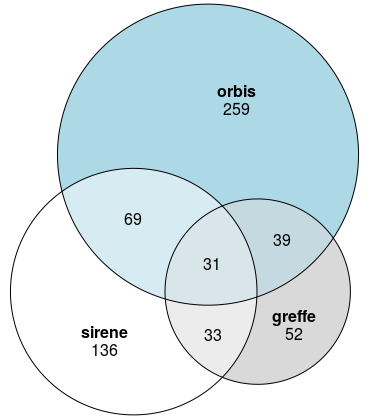
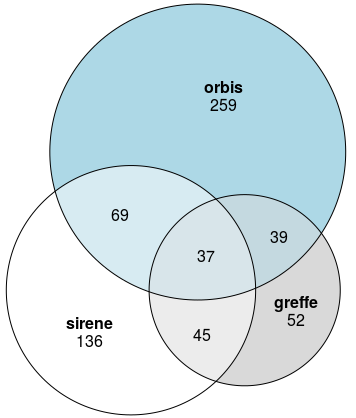
màj prez v1 + R

diff --git a/CCFD_DDV_Prez-Rapport.html b/CCFD_DDV_Prez-Rapport.html
@@ -115,7 +115,7 @@ Le millésime 2017 présente un stock de 1103530 entreprises déclarées. **L'ap
 
 L'analyse des formes juridiques fait apparaître une certaine homogénéité : **la majorité des entreprises répondant aux critères de la loi sont des SAS (23), des SAI (11) et des SASU (8)**. L'intégralité des entreprises relèvent du droit commercial.
 
-![](./graph/ddv_greffe_juri/ddv_greffe_juri.png)
+![](./graph/ddv_greffe_juri.png)
 
 
 ---
@@ -143,13 +143,13 @@ L'analyse des formes juridiques des entreprises indique cependant que toutes ces
 * 79 entreprises relèvent du droit administratif (collectivités territoriales, hôpitaux, université, etc.) ;
 * 5 tombant sous la catégorie "groupement de droit privé", sont des organismes caricatifs (Croix Rouge, Association des paralysés de France, Fondation d'Auteuil...).
 
-Une fois écartées ces deux catégories, **nous obtenons une liste de 136 entreprises soumises au droit commercial ayant employé plus de 5000 salariés deux années de suite**.
+Une fois écartées ces deux catégories, **nous obtenons une liste de 136 entreprises soumises au droit commercial ayant employé plus de 5000 salariés deux années de suite en France**.
 
 ---
 
-### Recoupements
+### Intersection
 
-En croisant les identifiants uniques Siren des entreprises répondant aux critères Devoir de vigilance pour les bases Greffe et Sirene, il apparaît que **l'intersection des listes se limite à 45 unités légales**. Aucune des bases ne peut donc être considérée comme suffisante à établir une liste.
+En croisant les identifiants uniques Siren des entreprises répondant aux critères de la loi Devoir de vigilance, il apparaît que **l'intersection des deux listes se limite à 45 unités légales**. Aucune des bases ne peut donc être considérée comme suffisante à établir une liste complète.
 
 ![](./graph/ddv_s-g_venneuler.png)
 
@@ -157,9 +157,9 @@ En croisant les identifiants uniques Siren des entreprises répondant aux critè
 
 ## Base Orbis
 
-[La base de données Orbis](https://www.bvdinfo.com/fr-fr/our-products/company-information/international-products/orbis) est un service fourni par la société Bureau van Dijk (filiale de la société d'analyse financière Moody's).
+[La base de données Orbis](https://www.bvdinfo.com/fr-fr/our-products/company-information/international-products/orbis) est un service fourni par la société Bureau van Dijk (filiale du groupe d'analyse financière Moody's).
 
-Elle propose aux acteurs privés et publics des données micro-économiques sur 300 millions d'entreprises dans le monde, notamment leurs effectifs. Parmi les critères de recherche, elle offre notamment la possibilité de retracer les liens de propriété financière entre les établissements d'une même entreprise à l'internationale, offrant ainsi une estimation du périmètre réel des groupes.
+Elle propose aux acteurs privés et publics des données micro-économiques sur 300 millions d'entreprises dans le monde, notamment leurs effectifs. Parmi les critères de recherche, elle offre la possibilité de retracer les liens de propriété financière entre les établissements d'une même entreprise à l'internationale, offrant ainsi une estimation du périmètre réel de ces sociétés.
 
 Cette base étant d'accès limité et payant, nous la considérons comme **un étalon de l'exhaustivité des données disponibles en open data**. Nous ne disposons par ailleurs par de la profondeur historique de deux années requises par la loi. Nous l'utiliserons ainsi uniquement comme outil de comparaison.
 
@@ -169,21 +169,24 @@ Cette base étant d'accès limité et payant, nous la considérons comme **un é
 
 La liste Orbis permettant un filtre par effectif à l'échelle de la France et à l'échelle mondiale, nous pouvons tester les critères nationaux et internationaux de la loi.
 
-1. Plus de 5000 salariés France
+#### Plus de 5000 salariés France
+
 Au critère de "plus de 5000 salariés en France", **la base Orbis renvoie une liste de 259 entreprises, soit près du double de Sirene** (la plus importante établie en open data).
 
-2. Plus de 10000 salariés mondialement
+#### Plus de 10000 salariés mondialement
+
 **La base Orbis renvoie 147 entreprises cumulant plus de 10000 salariés au niveau mondial dans leurs filiales détenues directement ou indirectement**, soit plus que le nombre total d'entreprises enregistrées pour Sirene.
 
-L'intersection des deux listes par nom renvoie 145 établissements, indiquant que la quasi totalité des entreprises dépassant le seuil d'emploi à l'international (147) le dépassent déjà en France. 114 entreprises de la liste française n'apparaissent pas dans la liste internationale, soit plus du double de la liste complète établie via le greffe.
+L'intersection des deux listes par nom renvoie 145 établissements, indiquant que la quasi totalité des entreprises dépassant le seuil d'emploi à l'international (147) le dépassent déjà en France..
 
 ---
 
 ### Croisement des listes par nom
 
-.pull-left[Nous établissons un croisement par nom entre la base Orbis pour le critère français et les deux autres bases. **Seules 31 noms d'entreprises** se retrouvent dans les trois bases.
+.pull-left[Nous établissons un croisement par nom entre la base Orbis pour le critère français et les deux autres bases. **Seules 37 noms d'entreprises** se retrouvent dans les trois bases.
 
-**Rappel méthodologique** : les recoupements sont réalisés sur les noms et non sur les identifiants uniques siren(non disponibles sur Orbis). Ils sont donc moins précis (d'où la valeur d'intersection de 33 entre Sirene et Greffe au lieu de 45 obtenus précédemment). Ces comparaisons sont donc à utiliser avec réserve comme des calculs *a minima*.]
+** Rappel méthodologique** :
+*les recoupements sont réalisés sur les noms et non sur les identifiants uniques siren (non disponibles sur Orbis) et sont donc moins précis. Ces comparaisons sont à utiliser avec réserve comme des calculs a minima.*]
 
 .pull-right[
 ![](./graph/ddv_s-g-o_venneuler.png)
@@ -194,47 +197,18 @@ L'intersection des deux listes par nom renvoie 145 établissements, indiquant qu
 
 ## Liste établie par CCFD et Sherpa
 
-Sur la base de données ouvertes, les associations CCFD Terres solidaires et Sherpa ont établi une liste des entreprises ayant déclarées être soumises à la loi Devoir de vigilance ou ayant déjà publié un plan de ce type.
+Sur la base de données ouvertes, les associations CCFD Terres solidaires et Sherpa ont établi une liste des entreprises ayant déclarées être soumises à la loi Devoir de vigilance ou ayant déjà publié un plan en 2017 et en 2018.
 
-    Accor
-    Air Liquide
-    Arkema
-    Atos
-    Bic
-    Bolloré
-    Bouygues
-    BPCE
-    CIC
-    Club Med
-    Danone
-    Dassault Systèmes
-    Eramet
-    Essilor
-    Faurecia
-    Groupama
-    Bel
-    Iliad
-    Imerys
-    Ipsos
-    JC Decaux
-    Keolis
-    Kering
-    Korian
-    Lagardère
-    LVMH
-    Nexans
-    Nexity
-    Pernod Ricard
-    Plastic Omnium
-    Publicis
-    Rexel
-    Saint Gobain
-    Teleperformance
-    Ubisoft
-    Valeo
-    Vallourec
-    Vinci
-    Wendel
+# WIP
+1. normaliser la base ;
+2. traiter les cas particuliers ;
+3. opérer les comparaisons.
+
+---
+
+### Comparaisons avec les listes ouvertes
+
+# WIP
 
 ---
 
@@ -246,13 +220,46 @@ class: inverse, center, middle
 
 ## Base Lifi
 
+La base de données Liaisons financières ([Lifi](https://www.insee.fr/fr/metadonnees/source/serie/s1038)) est un système d'information décrivant les liens capitalistiques entre les entreprises à l'échelle internationale.
+
+Elle est alimentée par de nombreuses sources : Banque de France, direction des Finances publiques, Insee, Orbis et rapports d'activités.
+
+D'après les informations disponibles en ligne et des avis de spécialistes que nous avons consulté, cette base pourrait combler de nombreuses lacunes des données disponibles, notamment sur le plan des effectifs internationaux.
+
+Ces données n'étant pas disponible en open data mais présentant un intérêt pour l'intérêt général, nous avons initié une démarche de demande officielle auprès des organismes producteurs pour obtenir communication d'un extrait correspondant aux critères de la loi.
+
 ---
 
-## Requêtes aux producteurs
+### Requêtes aux producteurs - 1
+
+Pour obtenir communications, nous nous sommes tournés vers les deux organismes désignés comme producteurs :
+* la Direction générale des finances publiques (Dgfip) du ministère de l'Economie ;
+* l'Insee.
+
+Nous nous appuyons dans cette démarche sur la loi n° 78-575 du 17 juillet 1978 relative à l'accès aux documents administratifs (dite, "loi Cada"). La loi stipule un délai légal de réponse d'un mois pour toute demande. Les envois ont été réalisé entre fin février et début mars 2019.
+
+#### Réponse Dgfip
+Le pôle données de la Dgfip a répondu à notre requête par un refus. Elle nous a renvoyé à la Direction des Statistiques des entreprises de l'Insee, gestionnaire de la base (que nous avions contacté parallèlement).
+
+
+
+---
+
+### Requête aux producteurs - 2
+
+#### Réponse Insee
+L'Insee a également décliné notre demande, motivant ainsi son refus :
+&gt; La source LIFI, constituée notamment de renseignements individuels collectés auprès d’entreprises par voie d’enquêtes de statistique publique, est pour cette raison couverte par le secret statistique.
+
+L'article 6 de la loi 51-711 du 7 juin 1951 sur le secret statistique ouvre le droit de formuler une demande auprès du Comité du secret statistique pour consulter la base.
+
+# WIP
 
 ---
 
 ## Requête Cada
+
+# WIP
 
 ---
 
@@ -262,90 +269,66 @@ class: inverse, center, middle
 
 ---
 
-## Liste établie via les données en open data
+## Listes
+
+#### Liste commune
+Nous proposons une première liste établie par croisement des bases de données Sirene et greffe sur deux années successives (exercices 2017 et 2018) de 45 enreprises correspondant aux critères de la loi Devoir de vigilance :
+
+# WIP
+1. mise en forme de la liste
+
+---
+
+#### Liste Sirene
 
 Nous proposons une première liste établie par croisement des bases de données Sirene et greffe sur deux années successives (exercices 2017 et 2018) de 45 enreprises correspondant aux critères de la loi Devoir de vigilance :
 
 
-```r
-knitr::kable(read.csv("./data_out/liste_s&amp;g.csv"), caption = 'A caption')
-```
-
-
-
-Table: A caption
-
-nom                                              siren
-------------------------------------------  ----------
-ADREXO                                       315549352
-AIRBUS OPERATIONS                            420916918
-API RESTAURATION                             477181010
-AREVA NC                                     305207169
-AUCHAN FRANCE                                410409460
-AXIMA CONCEPT                                854800745
-BRICO DEPOT                                  451647903
-CARREFOUR HYPERMARCHES                       451321335
-CARREFOUR SUPPLY CHAIN                       428240287
-CASTORAMA FRANCE                             451678973
-COMPASS GROUP FRANCE                         632041042
-CORA                                         786920306
-CSF                                          440283752
-DALKIA                                       456500537
-DECATHLON FRANCE                             500569405
-DERICHEBOURG PROPRETE                        702021114
-ENEDIS                                       444608442
-ENGIE ENERGIE SERVICES                       552046955
-ITM LOGISTIQUE ALIMENTAIRE INTERNATIONAL     514080837
-KIABI EUROPE                                 344103270
-KPMG                                         775726417
-LA POSTE                                     356000000
-MAJ                                          775733835
-MANUF FRANC PNEUMATIQ MICHELIN               855200507
-MEDIAPOST                                    331648014
-MEDICA FRANCE                                341174118
-METRO CASH &amp; CARRY FRANCE                    399315613
-MEUBLES IKEA FRANCE                          351745724
-OGF                                          542076799
-POMONA                                       552044992
-PSA AUTOMOBILES SA                           542065479
-RENAULT RETAIL GROUP                         312212301
-SAFRAN ELECTRONICS &amp; DEFENSE                 480107911
-SAMSIC II                                    428685358
-SAUR                                         339379984
-SCHENKER FRANCE                              311799456
-SCHNEIDER ELECTRIC FRANCE                    421106709
-SERIS SECURITY                               788213825
-SOCIETE FRANCAISE DU RADIOTELEPHONE - SFR    343059564
-SODEXO ENTREPRISES                           338253230
-SODEXO SANTE MEDICO SOCIAL                   338253081
-SOGETI FRANCE                                479942583
-THALES COMMUNICATIONS &amp; SECURITY S.A.S       383470937
-VEOLIA EAU - COMPAGNIE GENERALE DES EAUX     572025526
-ZARA FRANCE                                  348991555
+# WIP
+1. mise en forme de la liste
 
 ---
 
-## Cas des SARL
+### Cas particuliers
+
+#### Les sociétés en commandite (catégorie 53)
+Les listes que nous avons établi totalisent 3 sociétés en commandite (EURO DISNEY ASSOCIES SCA, VEOLIA EAU - COMPAGNIE GENERALE DES EAUX et MANUFACTURE FRANCAISE DES PNEUMATIQUES MICHELIN), exclue en droit de l'application. Néanmoins, ces entreprises sont déclarées sous la forme de "Société en commandite par actions", lesquelles ne bénéficient pas de cette exemption.
+
+#### Les sociétés à responsabilité limitée, SARL (catégorie 54)
+Trois entreprises de la liste issue de la base Insee rentrent dans la catégorie SARL, exclue du champs d'application : SECURITAS FRANCE SARL (SARL unipersonnelle) et ZARA FRANCE et H&amp;M HENNES &amp; MAURITZ (SARL sans autre indication).
+
+**Trois entreprises répondant aux critères d'effectifs de la loi Devoir de vigilance doivent donc être écartées du fait de leur forme sociale : H&amp;M, Securitas et Zara.**
 
 ---
 
-## 
+## Cas
 
 ---
 
 ## Utilité des données ouvertes
 
 
+# WIP
+1. les bases de données ne s'avèrent pas cohérentes les unes par rapport aux autres, notamment du fait des modalités d'enregistrement ;
+2. parler des nouveaux formats Insee ?
+3. les données pertinentes s'avèrent payantes
+4. Recommandation 1 : renforcer les obligations de déclaration ?
+5. Recommandation 2 : modifier les formats de publication pour faciliter l'identification des critères (normaliser les rapports annuels, par exemple ?)
+
 ---
 
 ## Pertinence du cadre légal
 
+
+# WIP
+1. ?
+2. le statut juridique des entreprises 
+
 ---
+
 class: inverse, center, middle
 
 # Merci !
-
-Contact : [joel@datactivist.coop](mailto:joel@datactivist.coop)
     </textarea>
 <script src="https://remarkjs.com/downloads/remark-latest.min.js"></script>
 <script>var slideshow = remark.create({
